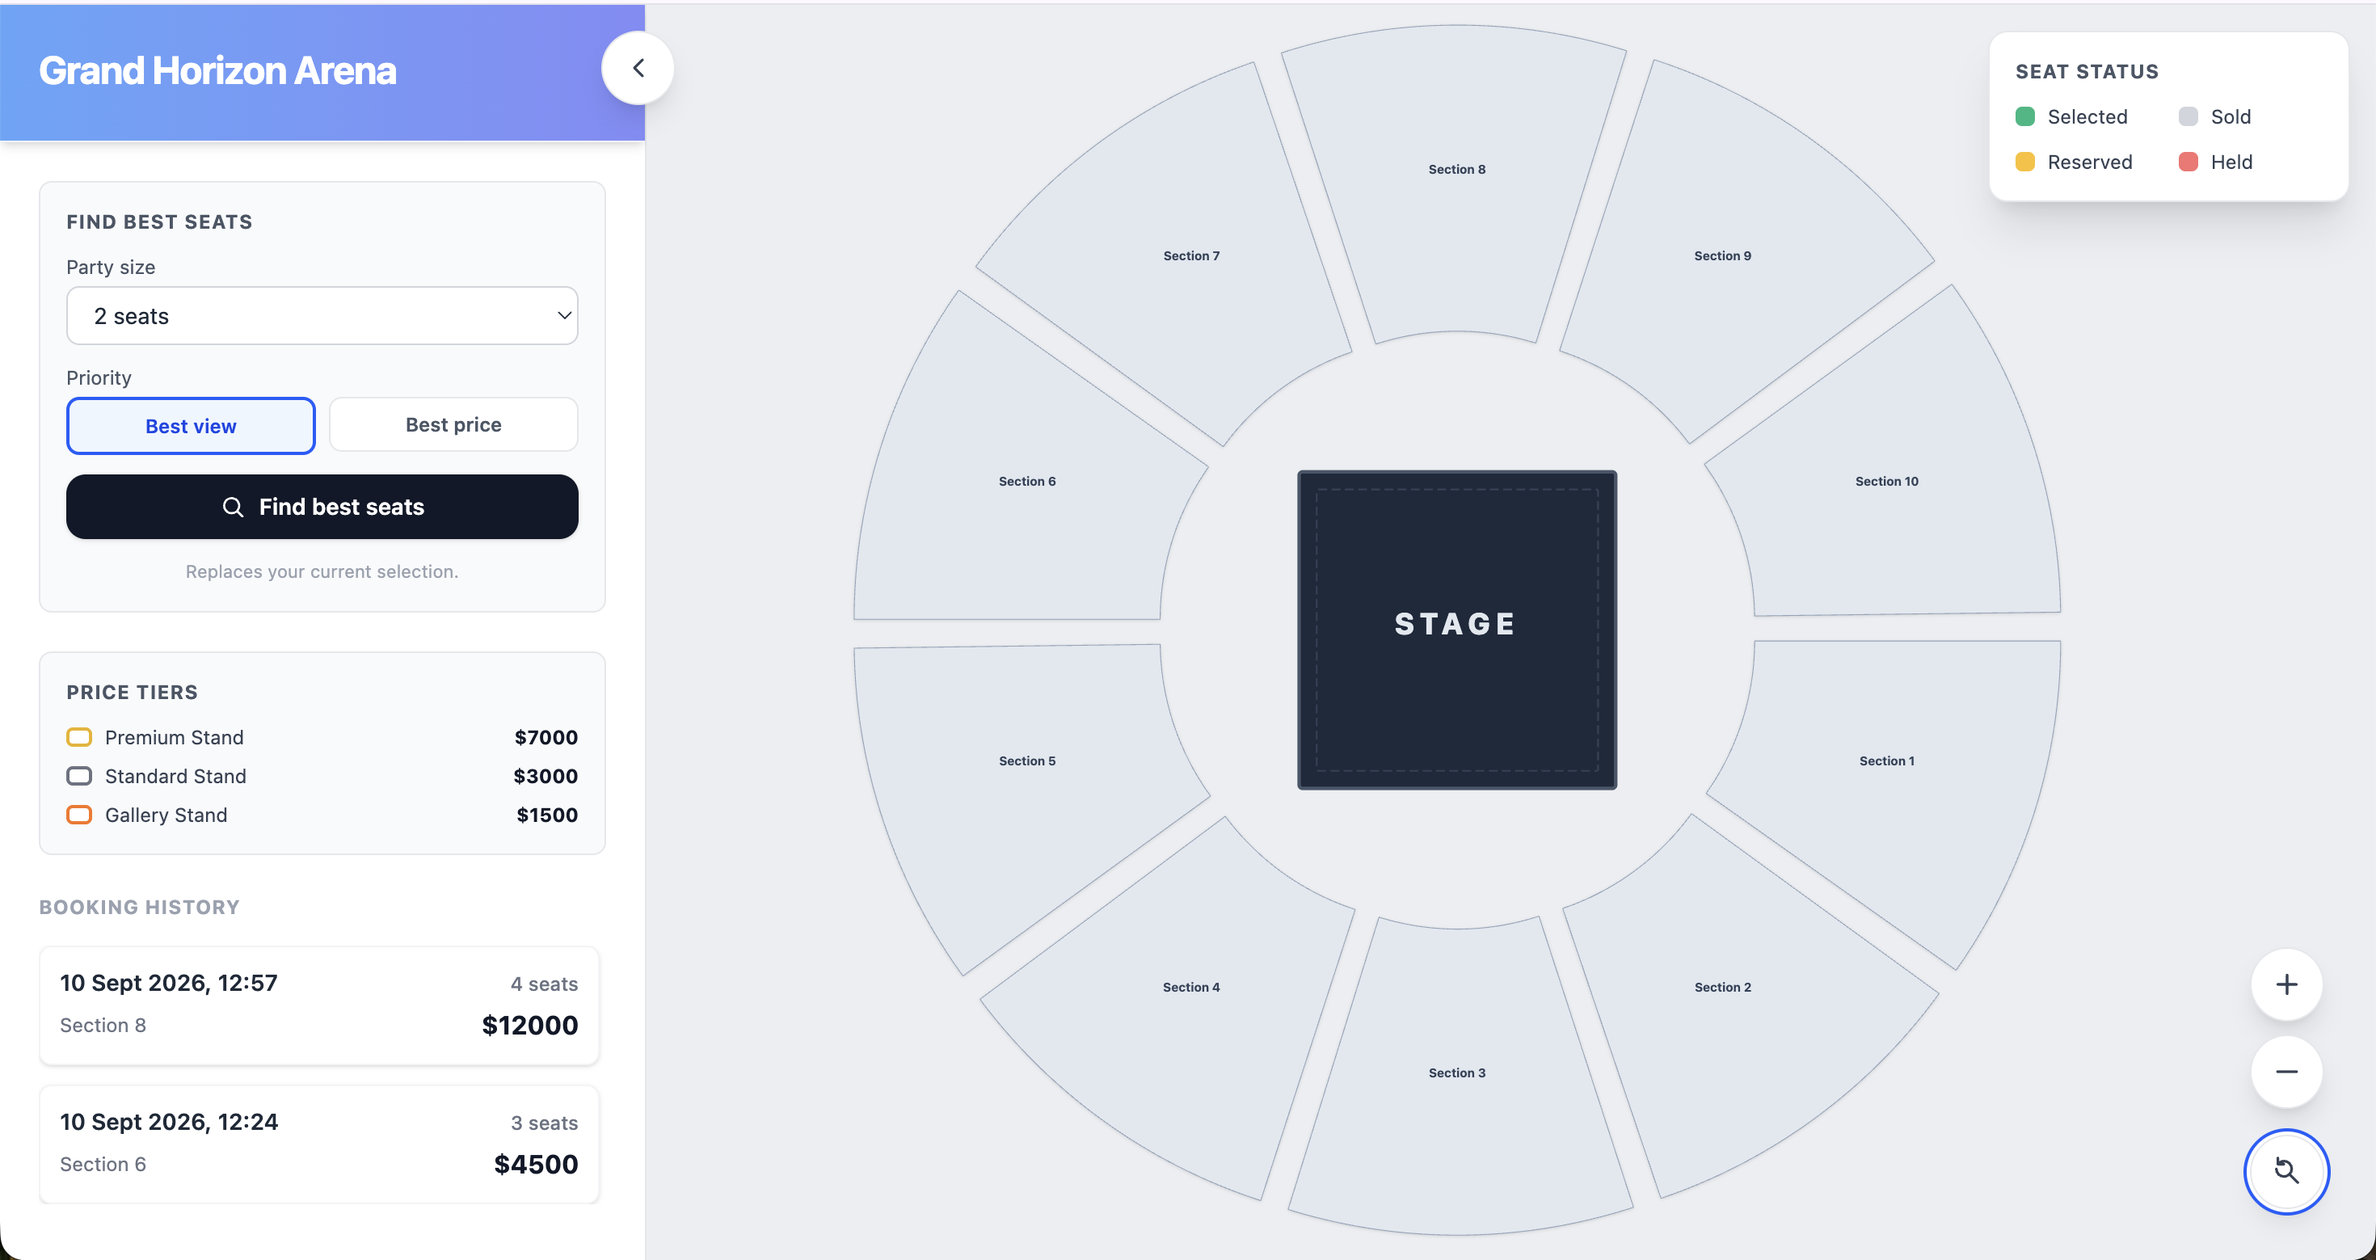
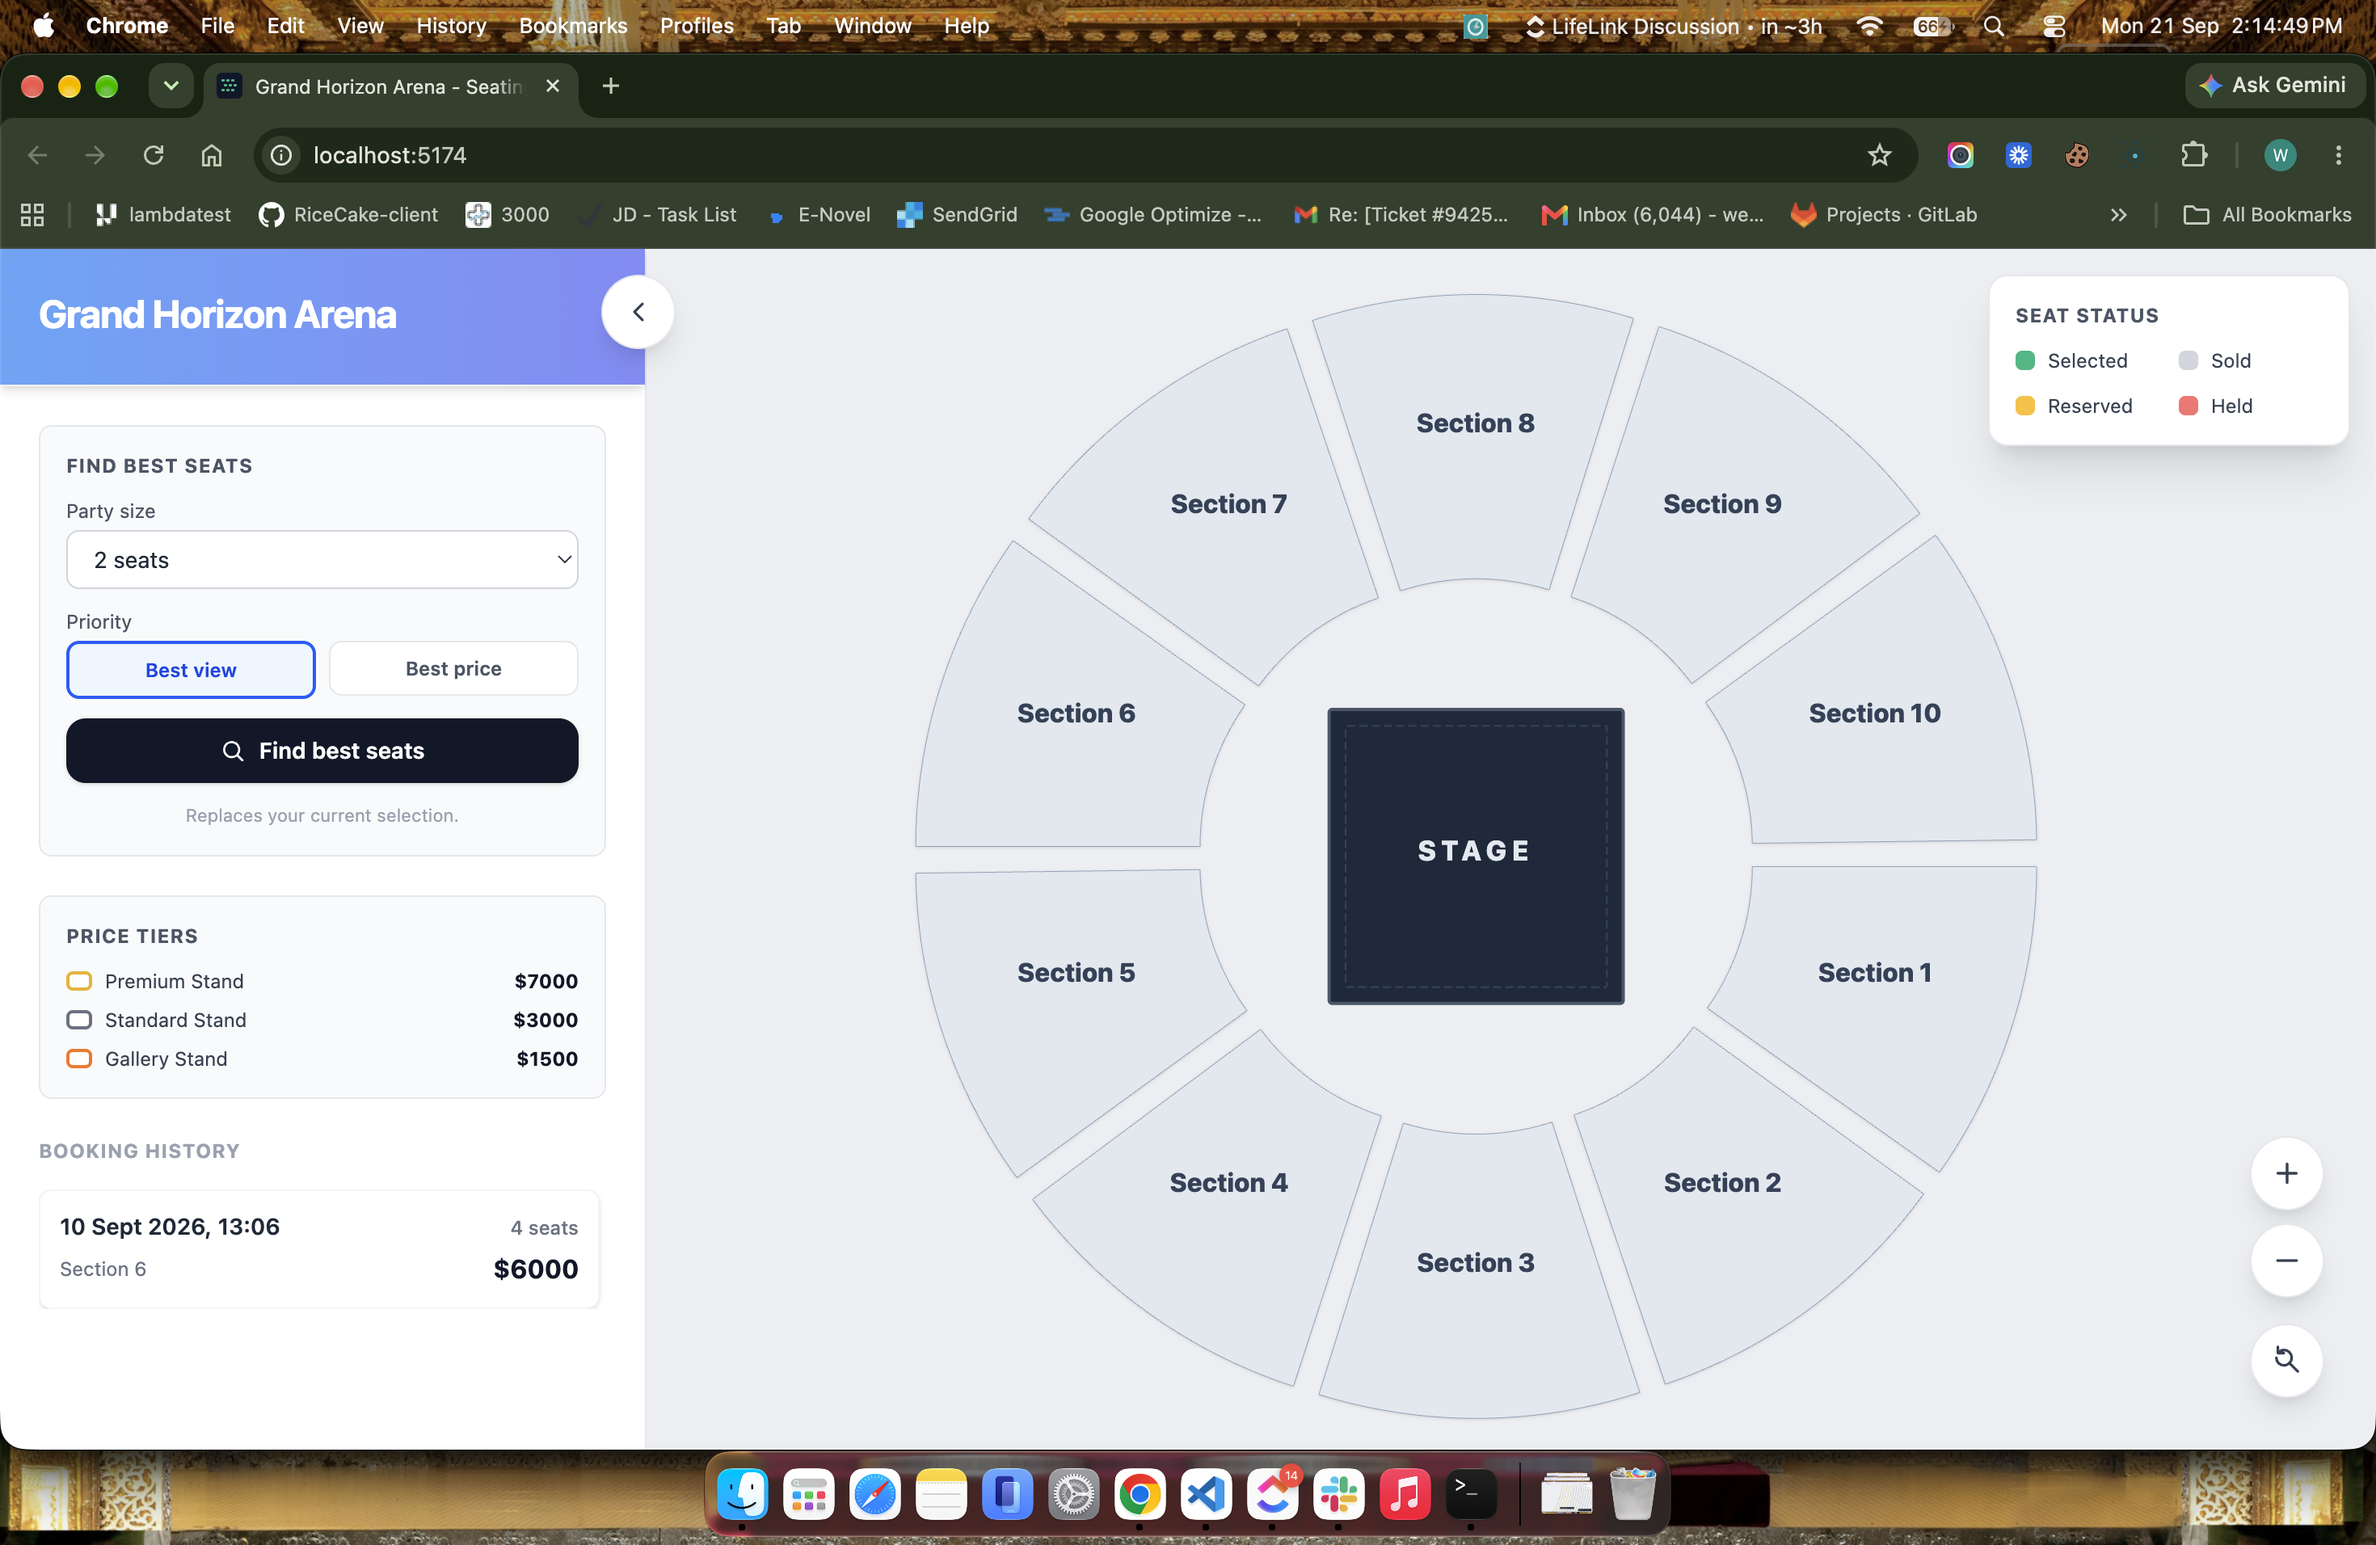
style: update font size and weight for section label in the seating map

diff --git a/src/components/Section.tsx b/src/components/Section.tsx
@@ -183,7 +183,9 @@ function Section({ section, bounds }: { section: Section; bounds: VenueContentBo
             x={labelPos.x}
             y={labelPos.y - 5}
             textAnchor="middle"
-            className="text-sm font-bold fill-slate-700"
+            fontSize="32"
+            fontWeight="800"
+            className="fill-slate-700"
             style={{ pointerEvents: 'none' }}
           >
             {section.label}
